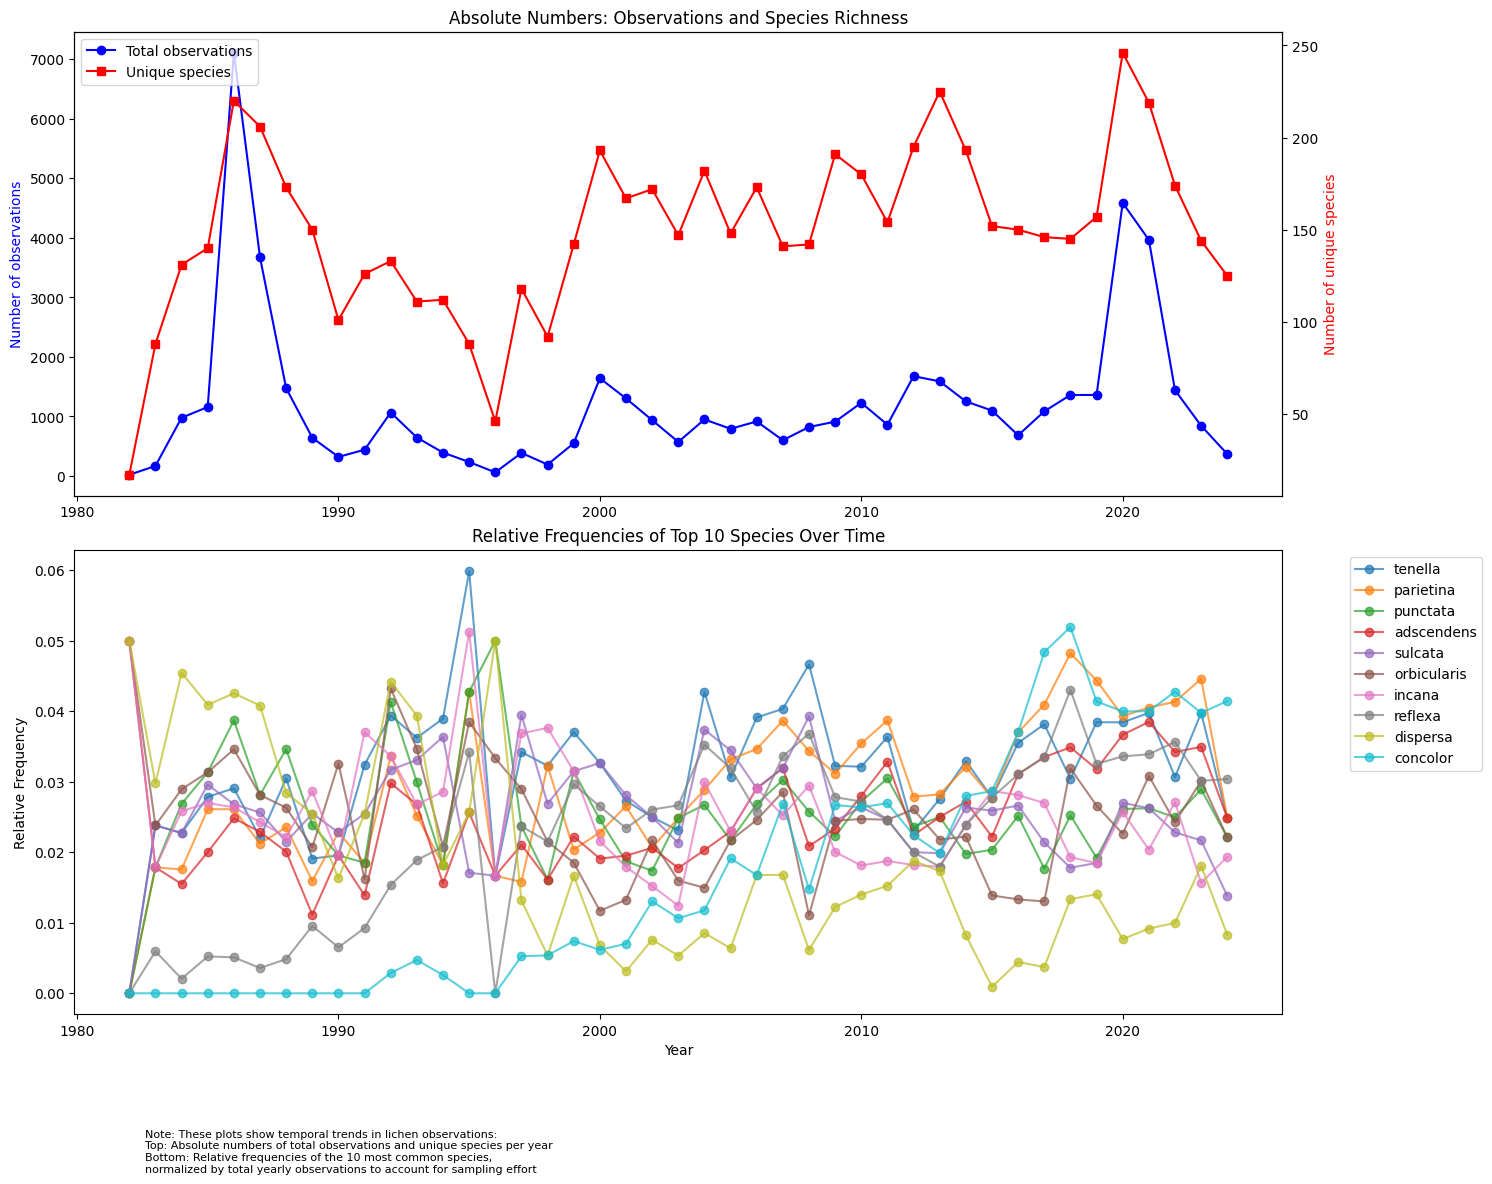
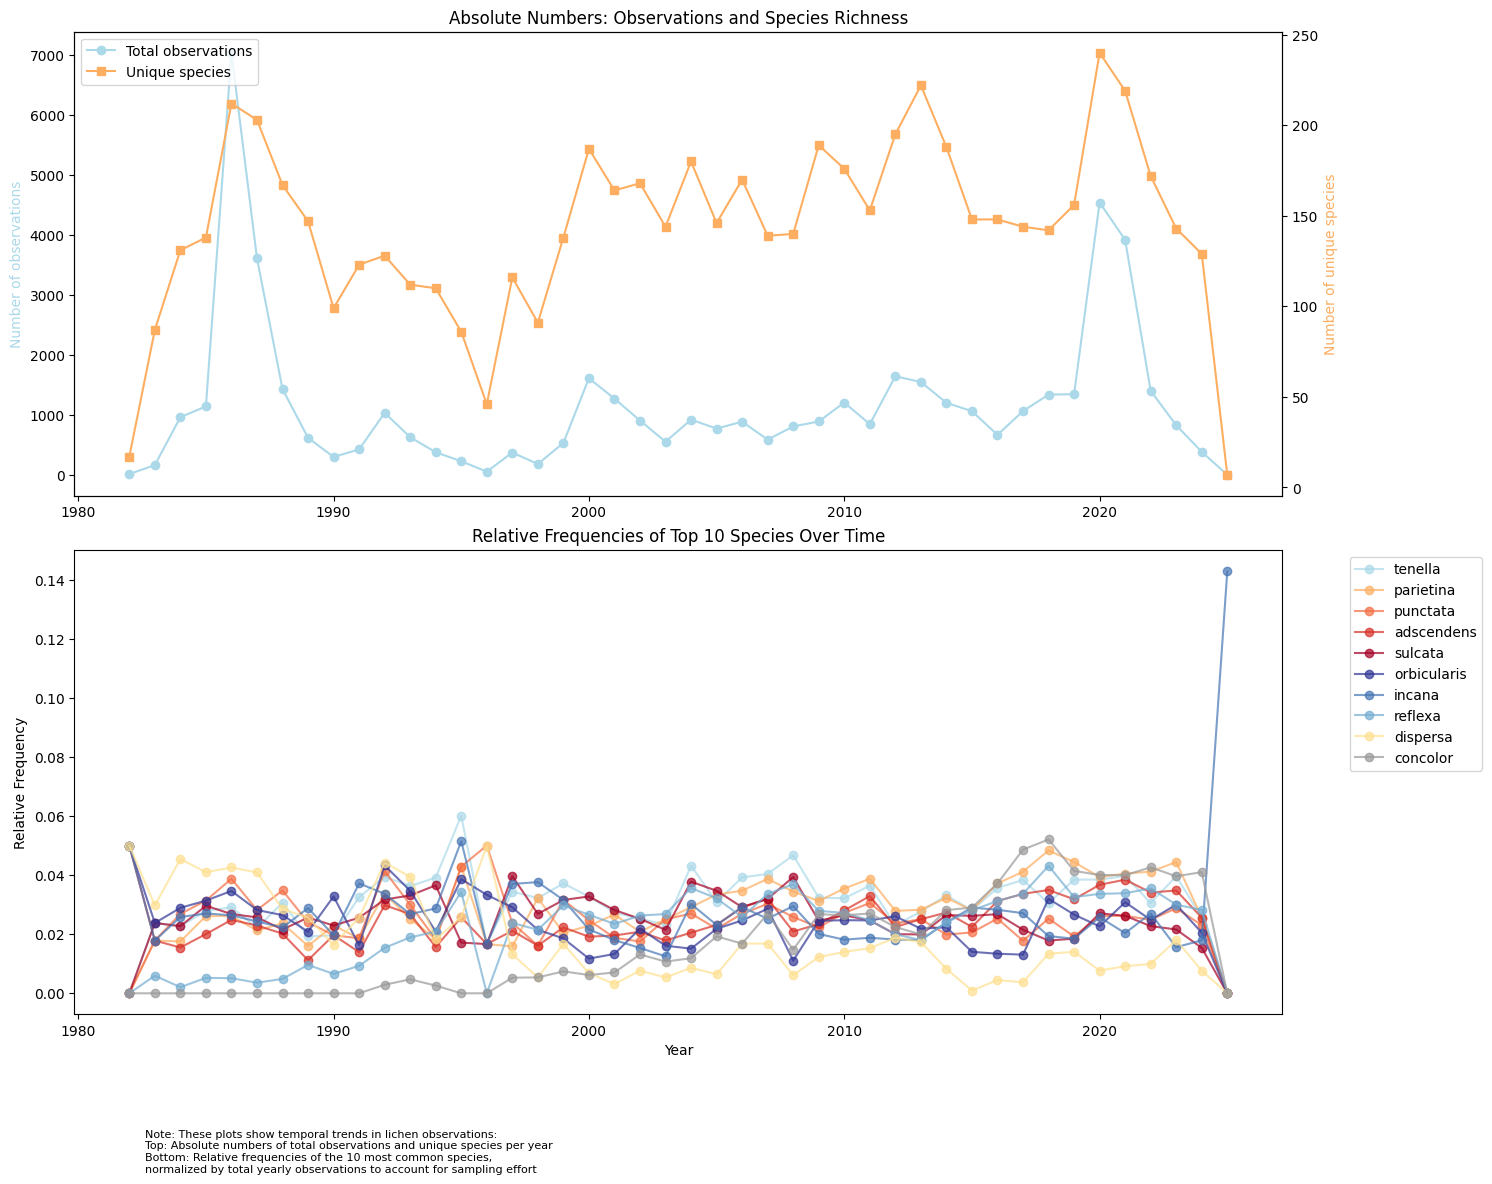
Updated color spectrum, uniform colors for all plots

diff --git a/plotting.py b/plotting.py
@@ -183,7 +183,7 @@ def plot_frequency_distribution(data):
     """Create frequency distribution plot showing MTB/64 distribution and classes.
     It effectively counts the number of unique grid squares per species and visualizes
     this distribution."""
-    fig, (ax1, ax2) = plt.subplots(1, 2, figsize=(15, 8))
+    fig, (ax1, ax2) = plt.subplots(1, 2, figsize=(12, 8))
     
     # Count number of MTB/64 squares per species
     species_freq = data.groupby('SPECIES')['KMHOK'].nunique().reset_index()
@@ -193,7 +193,7 @@ def plot_frequency_distribution(data):
     hist_values, hist_bins, _ = ax1.hist(
         species_freq['KMHOK'], 
         bins=20,  # Adjust number of bins as needed
-        color='skyblue',
+        color='#1f77b4',
         edgecolor='black'
     )
     
@@ -210,7 +210,7 @@ def plot_frequency_distribution(data):
     # Make axes labels clearer
     ax1.set_xlabel('Number of MTB/64 Grid Squares (Species Range)')
     ax1.set_ylabel('Number of Species')
-    ax1.set_title('Distribution of Species by Geographic Range\n(How many species occur in X grid squares)')
+    ax1.set_title('Distribution of Species by Geographic Range\n(How many species occur in X grid squares)', fontsize=16, pad=20)
     
     # Rest of the pie chart code remains the same
     # Create frequency classes based on MTB occurrences
@@ -224,11 +224,12 @@ def plot_frequency_distribution(data):
     freq_percentages = freq_percentages.reindex(['vr', 'r', 'mr', 'mf', 'f', 'vf'])
     
     # Pie chart
-    colors = ['lightgray', 'darkgray', 'gray', 'dimgray', 'black', 'darkslategray']
-    wedges, texts, autotexts = ax2.pie(freq_percentages, 
+    colors = ['#abd9e9', '#fdae61', '#f46d43', '#d73027', '#a50026', '#313695']
+    wedges, texts, autotexts = ax2.pie(freq_percentages,
                                       labels=[f'{l} {v:.1f}%' for l, v in zip(freq_percentages.index, freq_percentages)],
                                       colors=colors,
-                                      autopct='%1.1f%%')
+                                      autopct='%1.1f%%',
+                                      textprops={'color': 'white', 'weight': 'bold'})
     ax2.set_title('Frequency Class Distribution')
     
     # Update legend
@@ -254,7 +255,7 @@ def plot_frequency_distribution(data):
              horizontalalignment='left',
              verticalalignment='bottom',
              fontsize=10,
-             bbox=dict(facecolor='white', alpha=0.8),
+             bbox=dict(facecolor='#f5f5f5', alpha=0.5, boxstyle='round,pad=0.5'),
              transform=fig.transFigure)
     
     plt.tight_layout()
@@ -271,7 +272,7 @@ def plot_substrate_distribution(data):
     substrate_counts = data.groupby('SubstrateCategory')['AMOUNT'].sum().sort_values(ascending=False)
     
     # Create figure
-    plt.figure(figsize=(15, 8))
+    plt.figure(figsize=(12, 8))
     
     # Create vertical bar plot
     ax = plt.gca()
@@ -281,7 +282,7 @@ def plot_substrate_distribution(data):
     ax.set_xticks(range(len(substrate_counts)))
     ax.set_xticklabels(substrate_counts.index, rotation=0)
     ax.set_ylabel('Number of Observations')
-    ax.set_title('Distribution of Lichen Observations Across Substrate Types')
+    ax.set_title('Distribution of Lichen Observations Across Substrate Types', fontsize=16)
     
     # Add value labels on top of each bar
     for i, v in enumerate(substrate_counts.values):
@@ -347,7 +348,7 @@ def plot_species_per_substrate(data):
     
     # Add legend with substrate categories and their contents
     legend_text = {
-        'Bark': 'Tree species: Aa, Ab, Ac, Acm, Acn, Ae, Ah, Ai, Al, Ali, Aln, Am, Ame, An, Ap, Api, Apl, Aps, Ar, Ara, Arb, Arc, Ars, Ass, Au, Az, Aza, Bau, Be, Br, Bu, Bul, Bur, Ca, Cas, Cat, Cc, Cd, Cea, Cee, Cf, Cg, Ch, Cho, Chr, Ci, Cis, Cl, Cla, Cm, Co, Coc, Col, Cou, Cp, Cr, Cre, Cry, Cs, Csi, Ct, Cu, Cul, Cum, Cyt, Da, Do, Dr, En, Ep, Er, Erm, Ery, Eu, Euo, Fa, Fi, Fn, Fo, For, Fr, Fua, Ga, Geo, Gi, Gr, Gu, Hb, Hi, Hp, Hu, Hur, Hy, Id, In, Ix, Ja, Jac, Jn, Ju, La, Lal, Lau, Li, Lib, Lic, Lno, Lr, Ly, Man, May, Me, Mel, Met, Mg, Mh, Mi, Mic, Ml, Mn, Mol, Mr, Ms, Mt, My, Na, Ner, No, Oc, Ol, Or, Os, Pa, Pac, Pah, Pal, Par, Pau, Pc, Pca, Pdu, Pe, Ph, Phy, Pi, Pic, Pit, Pl, Pla, Pln, Pn, Po, Pod, Pol, Pp, Pr, Prd, Prt, Ps, Psp, Pt, Pth, Ptr, Pu, Py, Qco, Qf, Qil, Qpa, Qpu, Qpy, Qro, Qru, Qs, Qu, Qut, Rd, Rh, Ri, Rm, Ro, Rs, Ru, Rz, Rzm, Sa, Sal, Sd, Sek, Sm, Sn, Sp, Sq, Sr, Sy, Sz, Te, Tel, Ti, Tm, Tn, Tr, Ts, Tx, Ul, Va, Vi, We, Wi, Yu, Yue, ac, be, con, ft, pc, qro, sa, sm',
+        'Bark': 'Tree species: Aa, Ab, Ac, Acm, Acn, Ae, Ah, Ai, Al, Ali, Aln, Am, Ame, An, Ap, Api, Apl, Aps, Ar, Ara, Arb, Arc, Ars, Ass, Au, Az, Aza, Bau, Be, Br, Bu, Bul, Bur, Ca, Cas, Cat, Cc, Cd, Cea, Cee, Cf, Cg, Ch, Cho, Chr, Ci, Cis, Cl, Cla, Cm, Co, Coc, Col, Cou, Cp, Cr, Cre, Cry, Cs, Csi, Ct, Cu, Cul, Cum, Cyt, Da, Do, Dr, En, Ep, Er, Erm, Ery, Eu, Euo, Fa, Fi, Fn, Fo, For, Fr, Fua, Ga, Geo, Gi, Gr, Gu, Hb, Hi, Hp, Hu, Hur, Hy, Id, In, Ix, Ja, Jac, Jn, Ju, La, Lal, Lau, Li, Lib, Lic, Lno, Lr, Ly, Man, May, Me, Mel, Met, Mg, Mh, Mi, Mic, Ml, Mn, Mo, Mol, Mr, Ms, Mt, My, Na, Ner, No, Oc, Ol, Or, Os, Pa, Pac, Pah, Pal, Par, Pau, Pc, Pca, Pdu, Pe, Ph, Phy, Pi, Pic, Pit, Pl, Pla, Pln, Pn, Po, Pod, Pol, Pp, Pr, Prd, Prt, Ps, Psp, Pt, Pth, Ptr, Pu, Py, Qco, Qf, Qil, Qpa, Qpu, Qpy, Qro, Qru, Qs, Qu, Qut, Rd, Rh, Ri, Rm, Ro, Rs, Ru, Rz, Rzm, Sa, Sal, Sd, Sek, Sm, Sn, Sp, Sq, Sr, Sy, Sz, Te, Tel, Ti, Tm, Tn, Tr, Ts, Tx, Ul, Va, Vi, We, Wi, Yu, Yue, ac, be, con, ft, pc, qro, sa, sm',
         'Stone': 'Rock and stone substrates: Ba, C, Cn, So, asp, b, ba, c, cli, cn, cw, ir, mor, pav, rt, s, san, sh, so, sti, sw, ti, tsa, tsb, tsc, tss, vr',
         'Wood': 'Dead wood and processed wood: Gn, Th, bfb, bfp, bft, dbs, dst, exr, fp, fq, fs, pwf, st, stb, stc, stp, stq, tf, th, w, wb, wf, wfb, wft, wp, wst',
         'Soil': 'Ground and soil substrates: dg, eb, sdh, sts, t',
@@ -397,7 +398,7 @@ def plot_top_substrates(data):
     y_pos = range(len(top_substrates))
     
     # Plot bars for observations
-    obs_bars = ax.barh(y_pos, top_substrates['AMOUNT'], color='skyblue', label='Number of Observations')
+    obs_bars = ax.barh(y_pos, top_substrates['AMOUNT'], color='#1f77b4', label='Number of Observations')
     
     # Add species count as text
     for i, (obs, species) in enumerate(zip(top_substrates['AMOUNT'], top_substrates['SPECIES'])):
@@ -521,14 +522,14 @@ def plot_temporal_trends(data):
     
     # Plot 1: Absolute numbers
     ax1.plot(yearly_data['DATE'], yearly_data['AMOUNT'], 
-             marker='o', label='Total observations', color='blue')
-    ax1.set_ylabel('Number of observations', color='blue')
+             marker='o', label='Total observations', color='#abd9e9')  # Light blue
+    ax1.set_ylabel('Number of observations', color='#abd9e9')
     
     # Add second y-axis for species counts
     ax1_twin = ax1.twinx()
     ax1_twin.plot(yearly_data['DATE'], yearly_data['SPECIES'],
-                  marker='s', label='Unique species', color='red')
-    ax1_twin.set_ylabel('Number of unique species', color='red')
+                  marker='s', label='Unique species', color='#fdae61')  # Orange
+    ax1_twin.set_ylabel('Number of unique species', color='#fdae61')
     
     # Add legend
     lines1, labels1 = ax1.get_legend_handles_labels()
@@ -548,10 +549,29 @@ def plot_temporal_trends(data):
     # Select top 10 most common species for visualization
     top_species = pivot_species.sum().nlargest(10).index
     
+    # Define colors from the palette (6 colors provided)
+    colors = [
+        '#abd9e9',  # Light blue
+        '#fdae61',  # Orange
+        '#f46d43',  # Dark orange
+        '#d73027',  # Red
+        '#a50026',  # Dark red
+        '#313695'   # Dark blue
+    ]
+    
+    # Add 4 more harmonious colors for potential 10 species
+    extended_colors = colors + [
+        '#4575b4',  # Medium blue - complements the palette
+        '#74add1',  # Medium-light blue
+        '#fee090',  # Light orange/yellow - matches with original palette
+        '#999999'   # Gray - neutral option that works with the palette
+    ]
+    
     # Plot relative frequencies for top species
-    for species in top_species:
+    for i, species in enumerate(top_species):
         ax2.plot(relative_freq.index, relative_freq[species], 
-                 label=species, marker='o', alpha=0.7)
+                 label=species, marker='o', alpha=0.7,
+                 color=extended_colors[i % len(extended_colors)])  # Cycle through colors
     
     ax2.set_xlabel('Year')
     ax2.set_ylabel('Relative Frequency')
@@ -605,31 +625,48 @@ def plot_trend_analysis(data):
     # Create figure
     fig, (ax1, ax2) = plt.subplots(2, 1, figsize=(15, 12))
     
+    # Define colors from the palette (6 colors provided)
+    colors = [
+        '#abd9e9',  # Light blue
+        '#fee090',  # Light orange/yellow - matches with original palette
+        '#fdae61',  # Orange        
+        '#d73027',  # Red        
+        '#313695',  # Dark blue
+        '#999999'   # Gray - neutral option that works with the palette
+    ]   
+    
+    
     # Plot increasing trends
-    for species in top_increasing.index:
+    for i, species in enumerate(top_increasing.index):
         data = species_trends[species]
-        ax1.plot(species_trends.index, data, marker='o', label=f"{species} ({top_increasing[species]:.2e})")
+        color_idx = i % len(colors)
+        ax1.plot(species_trends.index, data, marker='o', 
+                 label=f"{species} ({top_increasing[species]:.2e})",
+                 color=colors[color_idx])
         
         # Add trend line
         x = np.arange(len(species_trends.index))
         z = np.polyfit(x, data, 1)
         p = np.poly1d(z)
-        ax1.plot(species_trends.index, p(x), '--', alpha=0.5)
+        ax1.plot(species_trends.index, p(x), '--', alpha=0.5, color=colors[color_idx])
     
     ax1.set_title('Top 5 Species with Strongest Increasing Trends')
     ax1.set_ylabel('Relative Frequency')
     ax1.legend(bbox_to_anchor=(1.05, 1), loc='upper left')
     
     # Plot decreasing trends
-    for species in top_decreasing.index:
+    for i, species in enumerate(top_decreasing.index):
         data = species_trends[species]
-        ax2.plot(species_trends.index, data, marker='o', label=f"{species} ({top_decreasing[species]:.2e})")
+        color_idx = i % len(colors)
+        ax2.plot(species_trends.index, data, marker='o', 
+                 label=f"{species} ({top_decreasing[species]:.2e})",
+                 color=colors[color_idx])
         
         # Add trend line
         x = np.arange(len(species_trends.index))
         z = np.polyfit(x, data, 1)
         p = np.poly1d(z)
-        ax2.plot(species_trends.index, p(x), '--', alpha=0.5)
+        ax2.plot(species_trends.index, p(x), '--', alpha=0.5, color=colors[color_idx])
     
     ax2.set_title('Top 5 Species with Strongest Decreasing Trends')
     ax2.set_xlabel('Year')
